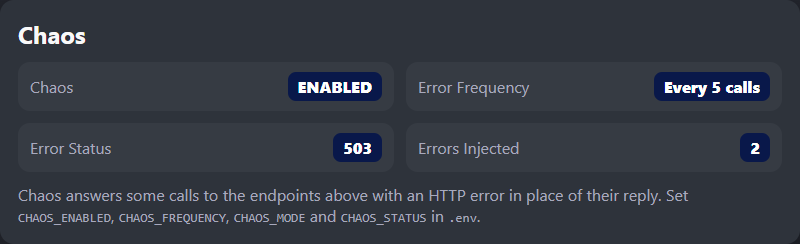
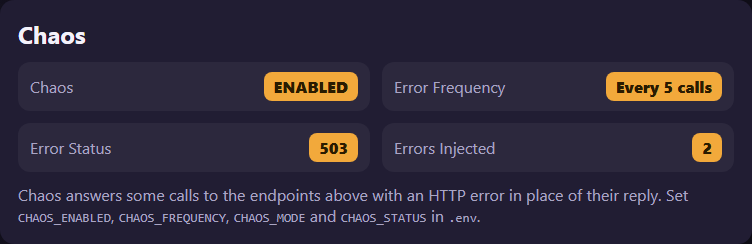
docs(): document UI_THEME and retake the screenshots in the dark theme

diff --git a/README.md b/README.md
@@ -112,6 +112,7 @@ Settings live in `.env`. Restart the server after changing one (in Docker, `npm 
 | `CHAOS_FREQUENCY` | `5` | Fail 1 in this many calls (1 = every call) |
 | `CHAOS_MODE` | `every` | `every` (each Nth call) or `random` (a 1 in N chance per call) |
 | `CHAOS_STATUS` | `500` | HTTP status of the injected error, 400 to 599 |
+| `UI_THEME` | `dark` | Colours of the dashboard: `dark` or `light` |
 | `MOCK_DB_PERSIST` | not set (off) | `ON` saves the mock database to disk and loads it at start |
 | `MOCK_DB_PERSIST_PATH` | `.mock-data/mock-db.json` | Where the database is saved |
 | `MOCK_DB_SEED_ON_START` | not set (off) | `ON` runs the seeders at every start, even when a saved database was loaded |
